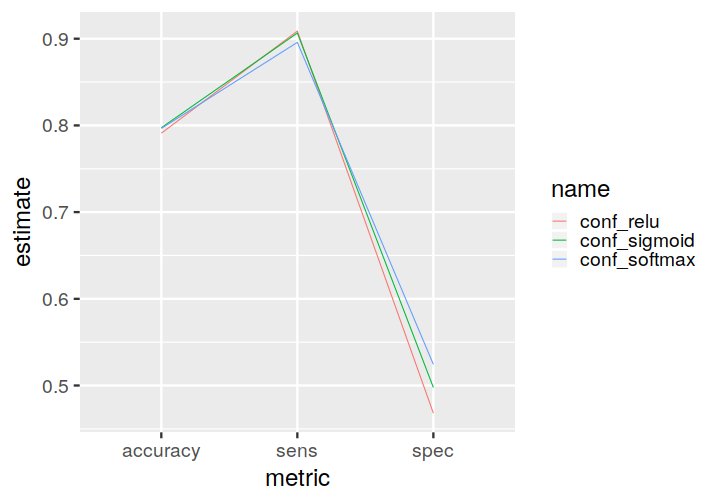
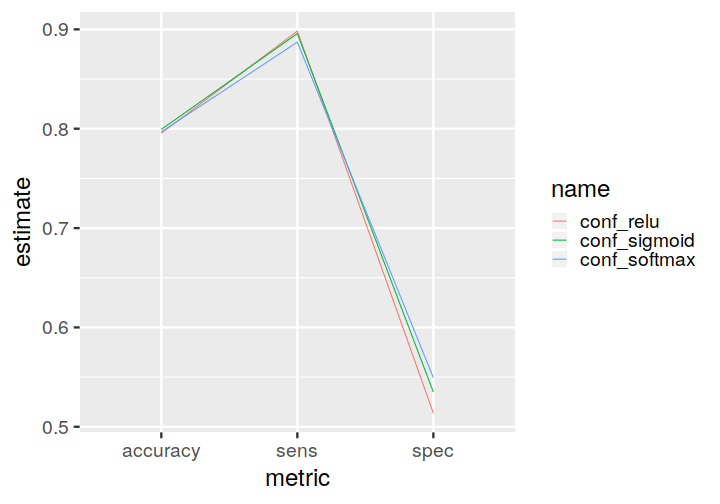
Edit speaker notes

diff --git a/inst/slides/index.html b/inst/slides/index.html
@@ -288,7 +288,7 @@ In these scripts, you've got package dependencies and file-saving steps scattere
 
 But more importantly, we don't have shorthand names for the long complicated steps we're doing. We don't have the structure to organize the ideas, so it's hard to take a step back and think about what we're doing.
 
-In the R community, we like to criticize Microsoft Excel. We give it a hard time for putting the formulas and the spreadsheets in the same file, and we claim it's not reproducible. And we have a point. But we are guilty of something very similar! We have a habit of knitting and weaving and tangling too many things together that don't belong together!
+In the R community, we like to criticize Microsoft Excel. We give it a hard time for putting the formulas and the spreadsheets in the same file, and we claim it's not reproducible. And we have a point. But we are guilty of something very similar! We have a habit of knitting and weaving and tangling too many things together that don't belong together in a large project!
 
 ---
 
@@ -311,7 +311,7 @@ my_function(3, 4)
 
 ???
 
-Arguably the easiest, most ubiquitous, most standard way to solve this problem is to write functions.
+An accessible, ubiquitous, standard way to address this problem is to write functions.
 
 A function is just a reusable command that accepts one or more inputs and returns a single output. You define it once, you give it a name, and you call it whenever you need it on whatever data that fits.
 
@@ -725,16 +725,16 @@ drake_history()
 ## # A tibble: 10 x 10
 ##    target  current built  exists hash  command     seed runtime  prop act1 
 ##    &lt;chr&gt;   &lt;lgl&gt;   &lt;chr&gt;  &lt;lgl&gt;  &lt;chr&gt; &lt;chr&gt;      &lt;int&gt;   &lt;dbl&gt; &lt;dbl&gt; &lt;chr&gt;
-##  1 conf_r… TRUE    2019-… TRUE   a945… confusio… 4.05e8  0.253   NA   &lt;NA&gt; 
-##  2 conf_s… TRUE    2019-… TRUE   a18b… confusio… 1.93e9  0.206   NA   &lt;NA&gt; 
-##  3 conf_s… TRUE    2019-… TRUE   5f47… confusio… 1.80e9  0.238   NA   &lt;NA&gt; 
-##  4 data    TRUE    2019-… TRUE   ca84… "read_cs… 1.29e9  0.036    0.3 &lt;NA&gt; 
-##  5 metrics FALSE   2019-… TRUE   f183… compare_… 1.21e9  0.019   NA   &lt;NA&gt; 
-##  6 metrics TRUE    2019-… TRUE   86cb… compare_… 1.21e9  0.0190  NA   &lt;NA&gt; 
-##  7 model_… TRUE    2019-… TRUE   9f3b… "train_m… 1.47e9  6.62    NA   relu 
-##  8 model_… TRUE    2019-… TRUE   ca44… "train_m… 1.26e9  4.62    NA   sigm…
-##  9 model_… TRUE    2019-… TRUE   6896… "train_m… 8.05e8  4.30    NA   soft…
-## 10 rec     TRUE    2019-… TRUE   7605… prepare_… 6.29e8  0.120   NA   &lt;NA&gt;
+##  1 conf_r… TRUE    2019-… TRUE   6eee… confusio… 4.05e8  0.233   NA   &lt;NA&gt; 
+##  2 conf_s… TRUE    2019-… TRUE   0085… confusio… 1.93e9  0.191   NA   &lt;NA&gt; 
+##  3 conf_s… TRUE    2019-… TRUE   4498… confusio… 1.80e9  0.235   NA   &lt;NA&gt; 
+##  4 data    TRUE    2019-… TRUE   ca84… "read_cs… 1.29e9  0.0370   0.3 &lt;NA&gt; 
+##  5 metrics FALSE   2019-… TRUE   c079… compare_… 1.21e9  0.0190  NA   &lt;NA&gt; 
+##  6 metrics TRUE    2019-… TRUE   9b2a… compare_… 1.21e9  0.0170  NA   &lt;NA&gt; 
+##  7 model_… TRUE    2019-… TRUE   5560… "train_m… 1.47e9  6.01    NA   relu 
+##  8 model_… TRUE    2019-… TRUE   15d5… "train_m… 1.26e9  3.81    NA   sigm…
+##  9 model_… TRUE    2019-… TRUE   ee86… "train_m… 8.05e8  4.23    NA   soft…
+## 10 rec     TRUE    2019-… TRUE   7605… prepare_… 6.29e8  0.121   NA   &lt;NA&gt;
 ```
 
 ???
@@ -763,7 +763,7 @@ make(plan, recover = TRUE)
 
 proc.time() - start
 ##    user  system elapsed 
-##   0.081   0.000   0.081
+##   0.081   0.002   0.083
 ```
 
 - Details + how to rename a target: &lt;https://ropenscilabs.github.io/drake-manual/walkthrough.html#reproducible-data-recovery-and-renaming&gt;
